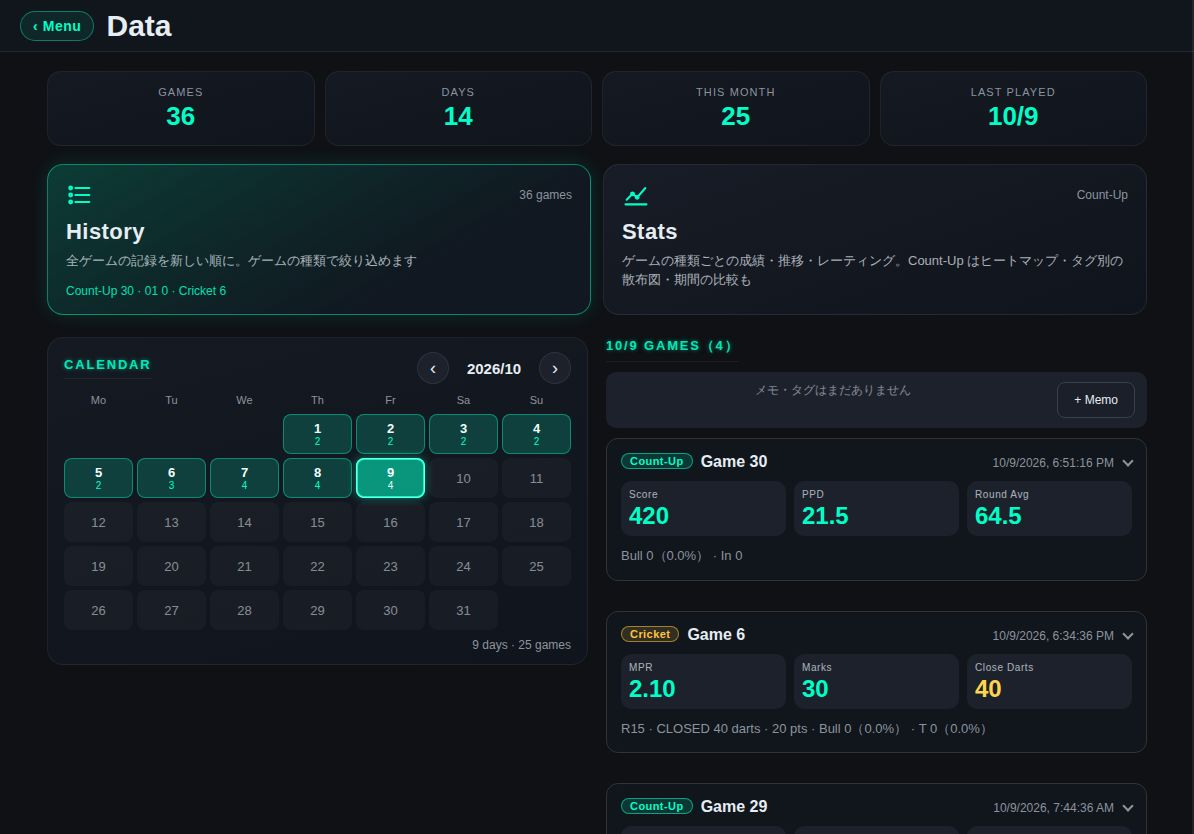
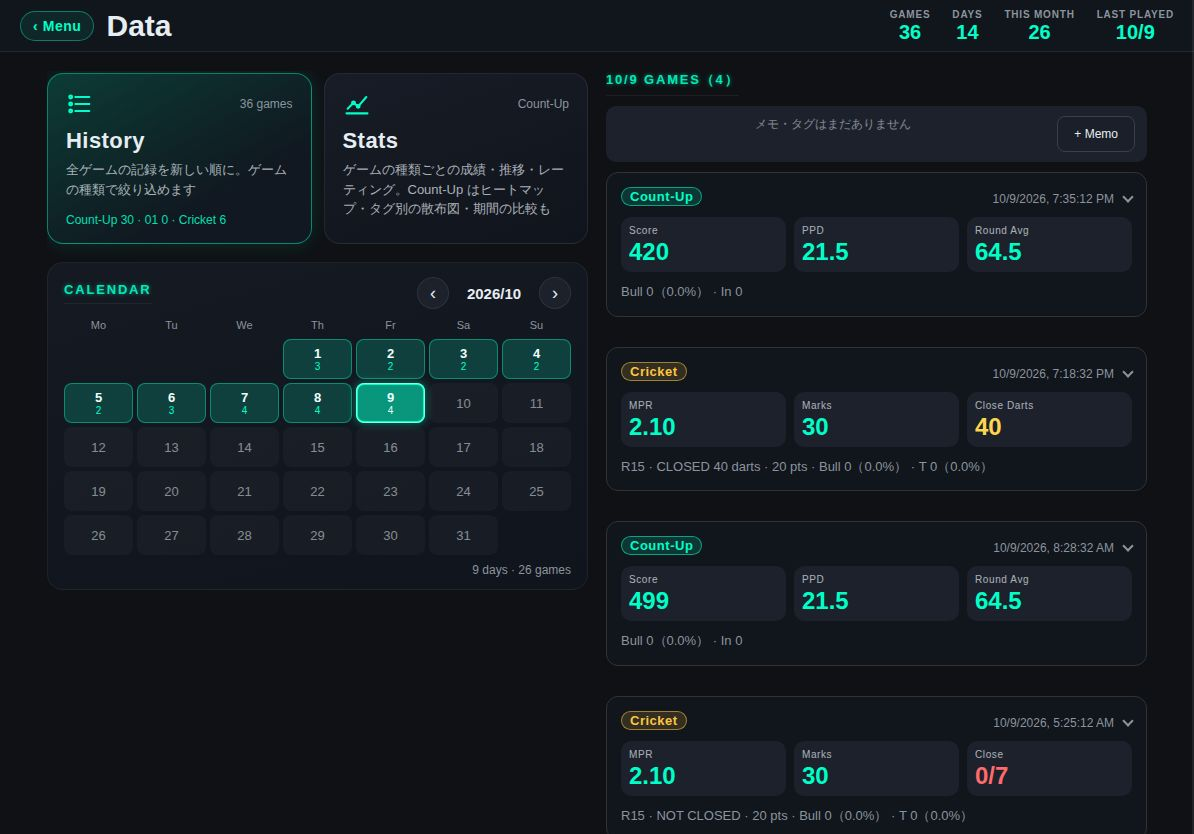
データのトップを横向きでは左右 2 列に（左は固定・右だけスクロール）
左に History / Stats のカードとカレンダー、右に選んだ日のメモとゲーム。
それぞれの中でスクロールし、描き直してもスクロール位置を保つ（日付を変えたら右を上へ）。

Claude-Session: https://claude.ai/code/session_01T46tqjmmnQtBio5EEUgC8y

diff --git a/js/data/data_hub.js b/js/data/data_hub.js
@@ -92,7 +92,18 @@ function renderDataHub() {
     `).join("")
   }
 
+  // 描き直しても左右のスクロール位置は保つ（日付を変えたときは右を上に戻す：dataHubResetMainScroll）
+  const prevSide = document.getElementById("dataHubSide")
+  const prevMain = document.getElementById("dataHubMain")
+  const sideScroll = prevSide ? prevSide.scrollTop : 0
+  const mainScroll = prevMain && !dataHubResetMainScroll ? prevMain.scrollTop : 0
+  dataHubResetMainScroll = false
+
+  // 横向き（とパソコン）は左右 2 列：左に History / Stats のカードとカレンダー（右とは別にスクロール）、
+  // 右に選んだ日のメモとゲーム（ここだけスクロール）。縦向きは上から順に並べて画面ごとスクロール
   hub.innerHTML = `
+    <div class="data-hub-layout">
+    <div class="data-hub-side" id="dataHubSide">
     <section class="data-hub-views">
       ${cards.map(card => `
         <button type="button" class="data-hub-card${card.mode === "history" ? " primary" : ""}" data-hub-view="${card.mode}">
@@ -107,13 +118,18 @@ function renderDataHub() {
       `).join("")}
     </section>
 
-    <div class="data-hub-bottom">
-      ${renderDataHubCalendar(sessions)}
-      ${dataHubSelectedDay ? renderDataHubDay(sessions) : ""}
-    </div>
+    ${renderDataHubCalendar(sessions)}
 
     ${sessions.length ? "" : '<p class="data-hub-note">まだ記録がありません。ゲームを終えると、ここに練習の記録が出ます。</p>'}
+    </div>
+    <div class="data-hub-main" id="dataHubMain">
+      ${dataHubSelectedDay ? renderDataHubDay(sessions) : ""}
+    </div>
+    </div>
   `
+
+  document.getElementById("dataHubSide").scrollTop = sideScroll
+  document.getElementById("dataHubMain").scrollTop = mainScroll
 
   hub.querySelectorAll("[data-hub-view]").forEach(btn => {
     btn.addEventListener("click", () => openDataView(btn.dataset.hubView))
@@ -124,11 +140,12 @@ function renderDataHub() {
 
   hub.querySelectorAll("[data-hub-day]").forEach(btn => {
     btn.addEventListener("click", () => {
+      dataHubResetMainScroll = true
       dataHubSelectedDay = btn.dataset.hubDay
       renderDataHub()
       // 縦に並んでいるとき（スマホ縦など）は、出したゲームの一覧が見えるところまで送る
       const list = document.getElementById("dataHubDay")
-      if (list && !document.body.classList.contains("landscape")) list.scrollIntoView({ block: "start", behavior: "smooth" })
+      if (list && isDataHubStacked()) list.scrollIntoView({ block: "start", behavior: "smooth" })
     })
   })
 
@@ -153,6 +170,14 @@ function renderDataHub() {
 let dataHubCalendarMonth = null
 // カレンダーで選んだ日（"YYYY-MM-DD"）
 let dataHubSelectedDay = null
+// 次に描くとき、右（選んだ日のメモとゲーム）のスクロールを上に戻す
+let dataHubResetMainScroll = false
+
+// 縦に 1 列で並べているか（縦向きのタブレット・スマホ。lay_data.css の .data-hub-layout）
+function isDataHubStacked() {
+  const cls = document.body.classList
+  return !cls.contains("landscape") && !cls.contains("desktop")
+}
 
 function getDataHubDayKey(time) {
   const d = new Date(time)

diff --git a/css/layout/lay_data.css b/css/layout/lay_data.css
@@ -2938,9 +2938,6 @@ body.page-data.data-hub-open .data-hub-header-stats {
   display: grid;
   grid-template-columns: repeat(2, minmax(0, 1fr));
   gap: 12px;
-
-  max-width: 1100px;
-  margin: 0 auto;
 }
 
 .data-hub-card {
@@ -3008,20 +3005,52 @@ body.page-data.data-hub-open .data-hub-header-stats {
   color: rgb(230 237 243 / 0.72);
 }
 
-/* カレンダーと最近のゲーム（横向きは左右に並べる） */
-.data-hub-bottom {
-  display: grid;
-  grid-template-columns: minmax(0, 1fr);
-  gap: 18px;
-
+/* 左（History / Stats のカード・カレンダー）と右（選んだ日のメモとゲーム）。
+   縦向きは上から順に並べて画面ごとスクロール、横向き・パソコンは左右 2 列にして、それぞれの中でスクロールする */
+.data-hub-layout {
   max-width: 1100px;
-  margin: 22px auto 0;
+  margin: 0 auto;
 }
 
-.landscape .data-hub-bottom,
-.desktop .data-hub-bottom {
+.data-hub-side {
+  display: flex;
+  flex-direction: column;
+  gap: 18px;
+}
+
+.data-hub-main {
+  margin-top: 22px;
+}
+
+body.page-data.data-hub-open.landscape .data-hub,
+body.page-data.data-hub-open.desktop .data-hub {
+  overflow: hidden;
+  padding-bottom: 0;
+}
+
+.landscape .data-hub-layout,
+.desktop .data-hub-layout {
+  display: grid;
   grid-template-columns: minmax(0, 1fr) minmax(0, 1fr);
-  align-items: start;
+  gap: 18px;
+  height: 100%;
+}
+
+.landscape .data-hub-side,
+.landscape .data-hub-main,
+.desktop .data-hub-side,
+.desktop .data-hub-main {
+  min-height: 0;
+  margin-top: 0;
+  overflow-y: auto;
+  -webkit-overflow-scrolling: touch;
+  padding-bottom: calc(24px + env(safe-area-inset-bottom));
+}
+
+/* カードの外側の光（box-shadow）がスクロールの枠で切れないよう、少し内側に置く */
+.landscape .data-hub-side,
+.desktop .data-hub-side {
+  padding-top: 2px;
 }
 
 .data-hub-calendar {
@@ -3315,8 +3344,7 @@ button.data-hub-cal-day {
 }
 
 .data-hub-note {
-  max-width: 1100px;
-  margin: 16px auto 0;
+  margin: 0;
   font-size: 13px;
   color: var(--text-muted);
 }
@@ -3363,7 +3391,13 @@ button.data-hub-cal-day {
 }
 
 .phone.landscape .data-hub-card {
-  min-height: 100px;
+  min-height: 0;
+  padding: 10px 12px;
+}
+
+/* スマホ横は左右 2 列で左が狭いので、カードの説明は出さない */
+.phone.landscape .data-hub-card-desc {
+  display: none;
 }
 
 

diff --git a/js/ui/news.js b/js/ui/news.js
@@ -319,6 +319,11 @@ const INFO_CONTENT = {
       date: "2026/10/10",
       badge: "UI",
       text: "データ画面のトップの練習のまとめ（ゲーム数・練習した日数・今月のゲーム数・最後に遊んだ日）をヘッダーの右に移し、画面を広く使えるようにしました。"
+    },
+    {
+      date: "2026/10/10",
+      badge: "UI",
+      text: "データ画面のトップを、横向きでは左に History / Stats とカレンダー、右に選んだ日のゲームを並べるようにしました。右のゲームの一覧をスクロールしても、左のカレンダーはそのまま見えます。"
     }
   ],
   notice: [

diff --git a/sw.js b/sw.js
@@ -1,5 +1,5 @@
-const APP_CACHE = "darts-app-v91"
-const RUNTIME_CACHE = "darts-runtime-v91"
+const APP_CACHE = "darts-app-v92"
+const RUNTIME_CACHE = "darts-runtime-v92"
 
 const PRECACHE_URLS = [
   "./",
